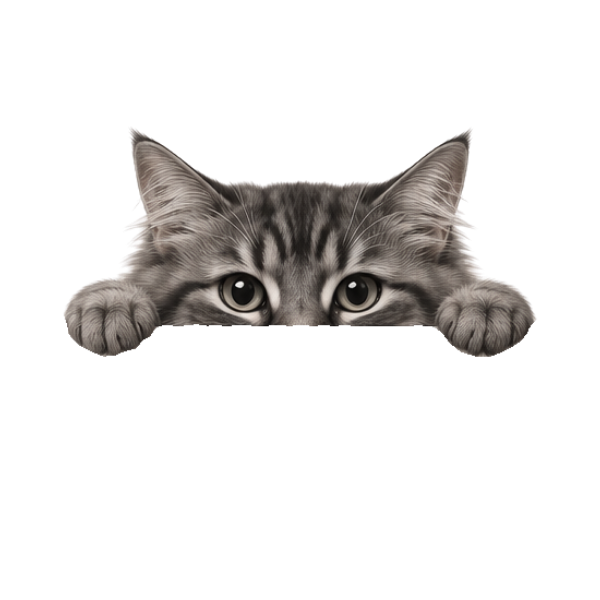
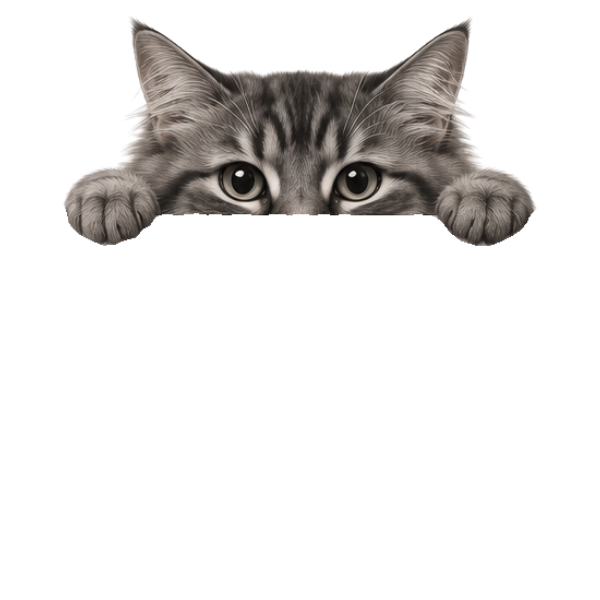
cat

Changed region(s): [[0.09, 0.03, 0.9, 0.6]]

diff --git a/style.css b/style.css
@@ -89,7 +89,7 @@ body{
 
     border-radius:32px;
 
-    padding:120px 60px 55px;
+    padding:160px 60px 55px;
 
     box-shadow:0 20px 50px rgba(0,0,0,.08);
 
@@ -108,11 +108,12 @@ body{
 
 .hero-cat{
     position:absolute;
-    width:320px;
+    width:360px;          /* was 320px */
     left:50%;
-    top:-88px;
+    top:-122px;           /* move it upward */
     transform:translateX(-50%);
     z-index:3;
+    pointer-events:none;
 }
 
 
@@ -122,7 +123,7 @@ body{
 
     font-size:48px;
 
-    margin-bottom:18px;
+    margin-bottom:24px;
 
 }
 